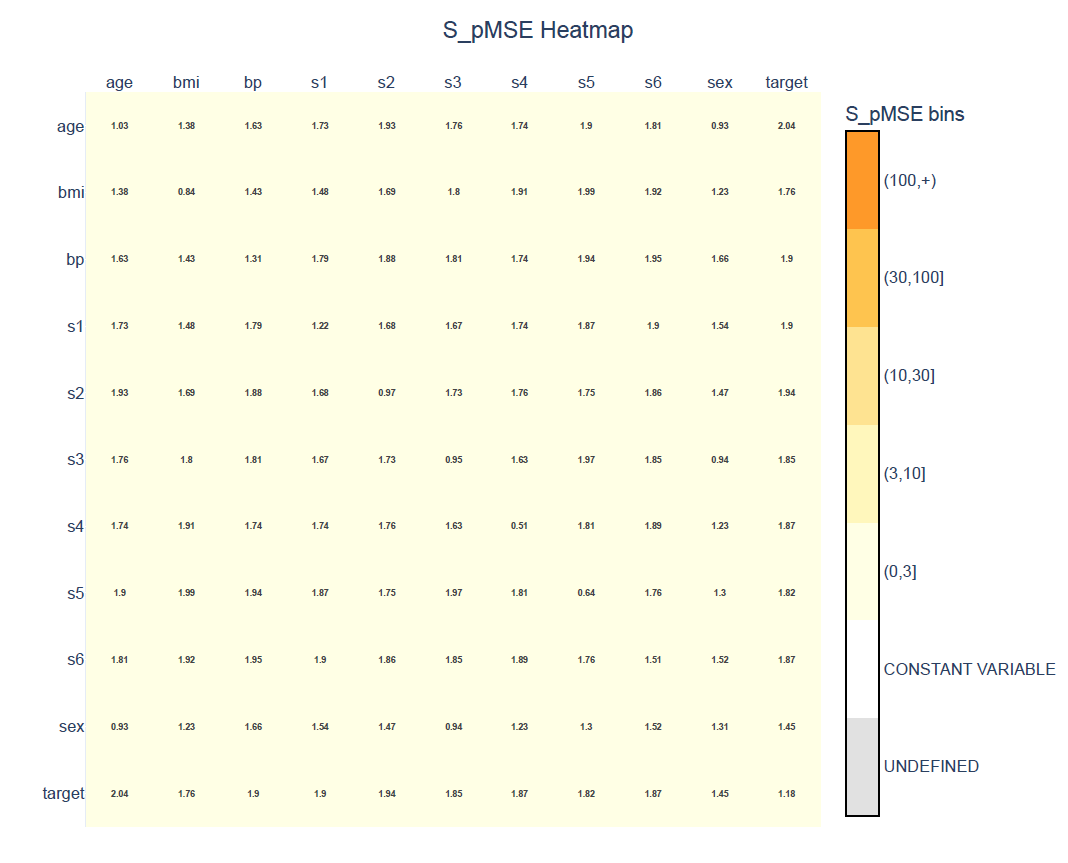
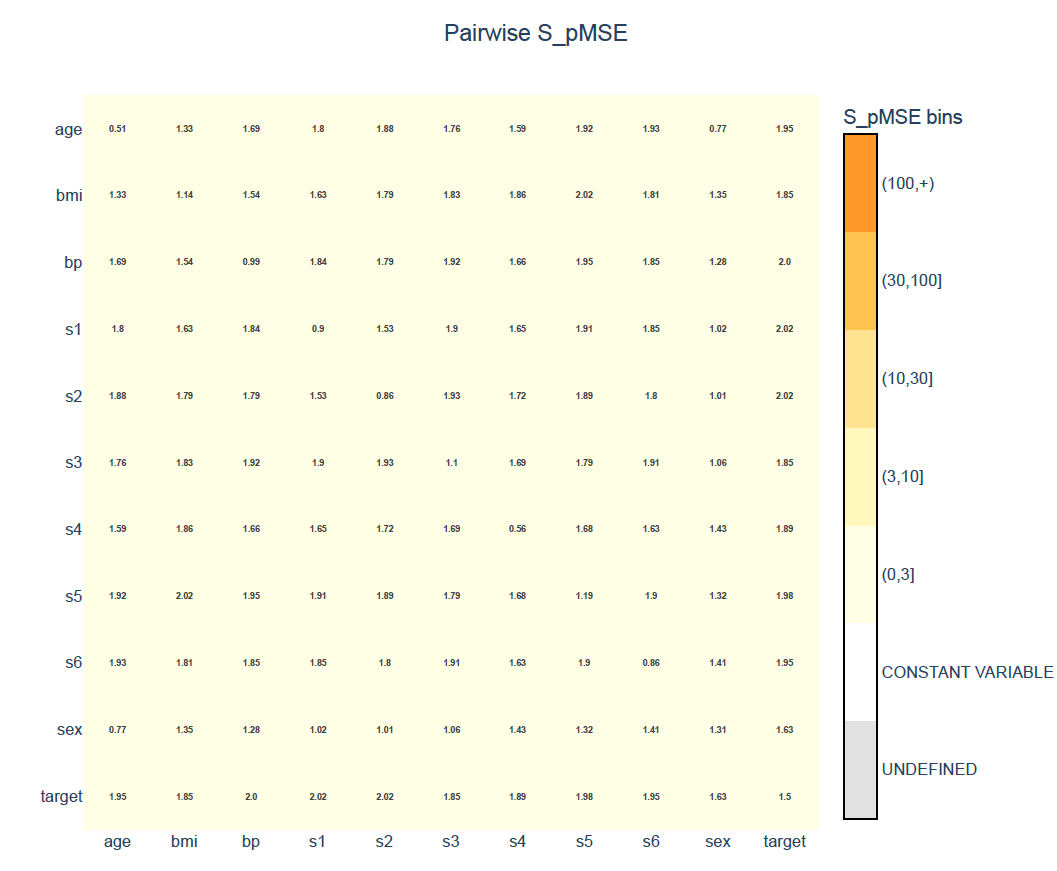
283 spmse plot formatting can improve (#285)
* First changes to the plotting, added a show_values True/False and the column name to the bottom

* Changed fontsize back

* Commented the plotting test

* Apply batched suggestions from code review

* Implemented feedback and pep8 formatting

* Different formatter

* Apply suggestion from @anneliesdej

* First changes to the docs

* Made the text better

* Changes the example text back

* Changed Titanic back

* Update src/synthpop/plotting/plot_spmse.py

---------

diff --git a/src/synthpop/plotting/plot_spmse.py b/src/synthpop/plotting/plot_spmse.py
@@ -22,7 +22,7 @@ def _categorise_spmse(spmse: pd.DataFrame, bins: Sequence[float]) -> pd.DataFram
 
     :return: 4xN pandas DataFrame with new categorised column
     """
-    spmse["category"] = np.digitize(spmse['S_pMSE'], bins=bins, right=True)
+    spmse["category"] = np.digitize(spmse["S_pMSE"], bins=bins, right=True)
     return spmse
 
 
@@ -54,7 +54,7 @@ def _make_matrix(df: pd.DataFrame, value_string="S_pMSE") -> pd.DataFrame:
     return matrix.iloc[::-1]
 
 
-def _make_text_matrix(matrix: pd.DataFrame) -> pd.DataFrame:
+def _make_text_matrix(matrix: pd.DataFrame, show_values: bool) -> pd.DataFrame:
     """
     Convert a numeric matrix into a string matrix for plotting.
 
@@ -63,11 +63,16 @@ def _make_text_matrix(matrix: pd.DataFrame) -> pd.DataFrame:
     is undefined because the variable is constant.
 
     :param matrix: NxN numpy matrix
+    :param show_values: Whether the S_pMSE values are shown in the plot
 
     return: an NxN matrix
     """
-    text_matrix = matrix.round(2).astype(str)
 
+    if show_values:
+        text_matrix = matrix.round(2).astype(str)
+    else:
+        # empty frame with nothing
+        return pd.DataFrame("", index=matrix.index, columns=matrix.columns)
     text_matrix = text_matrix.mask(
         matrix.isna(),
         "UNDEFINED",
@@ -83,8 +88,11 @@ def _get_colour_scale() -> list:
     Helper function to obtain the discrete colour scale used for the S_pMSE bins.
     """
 
-    colours = ['rgb(225, 225, 225)'] + ['rgb(255, 255, 255)'] + \
-        px.colors.sequential.YlOrBr[:5]
+    colours = (
+        ["rgb(225, 225, 225)"]
+        + ["rgb(255, 255, 255)"]
+        + px.colors.sequential.YlOrBr[:5]
+    )
 
     n = len(colours)
     colour_scale = []
@@ -98,10 +106,10 @@ def _get_colour_scale() -> list:
 
 
 def _make_heatmap(
-        matrix: pd.DataFrame,
-        text_matrix: pd.DataFrame,
-        colour_scale: list,
-        bin_labels: Sequence[str]
+    matrix: pd.DataFrame,
+    text_matrix: pd.DataFrame,
+    colour_scale: list,
+    bin_labels: Sequence[str],
 ) -> go.Figure:
     """
     Generate an interactive Plotly heatmap of the categorised S_pMSE matrix.
@@ -118,6 +126,9 @@ def _make_heatmap(
     :return: A Plotly Figure containing the S_pMSE heatmap.
     """
 
+    width = 986
+    height = 850
+
     fig = go.Figure(
         data=go.Heatmap(
             z=matrix.values,
@@ -126,10 +137,7 @@ def _make_heatmap(
             text=text_matrix.values,
             texttemplate="<b>%{text}</b>",
             hovertemplate=(
-                "x: %{x}<br>"
-                "y: %{y}<br>"
-                "value: %{text}"
-                "<extra></extra>"
+                "x: %{x}<br>" "y: %{y}<br>" "value: %{text}" "<extra></extra>"
             ),
             colorscale=colour_scale,
             zmin=0,
@@ -141,24 +149,30 @@ def _make_heatmap(
                 title="S_pMSE bins",
                 outlinecolor="black",
                 outlinewidth=2,
-            )
+            ),
         ),
-
         layout=dict(
-            title="S_pMSE Heatmap",
+            title="Pairwise S_pMSE",
             title_x=0.5,
             font=dict(family="Arial", size=15),
-            width=986,
-            height=850,
-            xaxis=dict(side="top"),
-            yaxis=dict(scaleanchor="x", scaleratio=1)  # Make it a Cube
-        )
+            width=width,
+            height=height,
+            paper_bgcolor="rgba(0,0,0,0)",
+            plot_bgcolor="rgba(0,0,0,0)",
+            xaxis=dict(side="bottom"),
+            yaxis=dict(scaleanchor="x", scaleratio=1),  # Make it a Cube
+        ),
     )
 
     return fig
 
 
-def plot_spmse(spmse: pd.DataFrame, save_path: str | None = None, show_plot: bool = False) -> go.Figure:
+def plot_spmse(
+    spmse: pd.DataFrame,
+    save_path: str | None = None,
+    show_plot: bool = False,
+    show_values: bool = True,
+) -> go.Figure:
     """
     Create a heatmap visualisation of pairwise S_pMSE values.
 
@@ -169,19 +183,21 @@ def plot_spmse(spmse: pd.DataFrame, save_path: str | None = None, show_plot: boo
     The displayed S_pMSE values are grouped into predefined bins and
     represented using a discrete sequential colour scale.
 
-    If a saving location is provided, the generated heatmap is written to `spmse.pdf` in the specified directory. 
+    If a saving location is provided, the generated heatmap is written to `spmse.pdf` in the specified directory.
     If interactive rendering is enabled, the figure is displayed using the active Plotly renderer.
 
-    :param spmse: DataFrame containing the pairwise standardised propensity mean squared error values. 
-        The dataframe must contain exactly the columns `['column1', 'column2', 'S_pMSE']` 
-        where `column1` and `column2` identify the variable pair and `S_pMSE` contains the corresponding pairwise S_pMSE value. 
+    :param spmse: DataFrame containing the pairwise standardised propensity mean squared error values.
+        The dataframe must contain exactly the columns `['column1', 'column2', 'S_pMSE']`
+        where `column1` and `column2` identify the variable pair and `S_pMSE` contains the corresponding pairwise S_pMSE value.
         You can obtain this dataframe by running :func:`~synthpop.utility_metrics.spmse.pairwise_spmse`.
     :param save_path: Directory where the output PDF is written.
         If a relative path is provided, it is resolved relative to the current working
         directory. The directory is created if it does not already exist (including)
         parent directories). If `None` (default), no permanent output file is created.
-    :param show_plot: Whether to display the heatmap interactively using the active Plotly renderer. 
+    :param show_plot: Whether to display the heatmap interactively using the active Plotly renderer.
         Default is `False`. In headless environments this parameter should be set to `False`.
+    :param show_values: Whether to show the S_pMSE values in the heatmap cells.
+        Default is `True`. When `False`, only the color coding is shown.
 
     :return: A Plotly Figure containing a heatmap of pairwise S_pMSE values with
         bin-based colouring and S_pMSE values in the bins.
@@ -218,31 +234,36 @@ def plot_spmse(spmse: pd.DataFrame, save_path: str | None = None, show_plot: boo
 
     if not isinstance(spmse, pd.DataFrame):
         raise ValueError(
-            f"The S_pMSE data should be a pandas DataFrame, got {type(spmse)} instead.")
+            f"The S_pMSE data should be a pandas DataFrame, got {type(spmse)} instead."
+        )
 
-    if not list(spmse.columns) == ['column1', 'column2', 'S_pMSE']:
+    if not list(spmse.columns) == ["column1", "column2", "S_pMSE"]:
 
         raise ValueError(
             "The S_pMSE dataframe must contain exactly "
             "the columns ['column1', 'column2', 'S_pMSE']."
         )
-    if pd.isna(spmse['S_pMSE']).any():
+    if pd.isna(spmse["S_pMSE"]).any():
         raise ValueError(
-            "The S_pMSE dataframe must not contain missing values"
-        )
+            "The S_pMSE dataframe must not contain missing values")
     spmse = spmse.copy(deep=False)
 
     bins = [0, 3, 10, 30, 100, np.inf]
     bin_labels = [
-        "UNDEFINED", "CONSTANT VARIABLE", "(0,3]", "(3,10]",
-        "(10,30]", "(30,100]", '(100,+)'
+        "UNDEFINED",
+        "CONSTANT VARIABLE",
+        "(0,3]",
+        "(3,10]",
+        "(10,30]",
+        "(30,100]",
+        "(100,+)",
     ]
 
     # pairwise_spmse does not return nan
     spmse = _categorise_spmse(spmse, bins)
 
     matrix_orig = _make_matrix(spmse, "S_pMSE")
-    text_matrix = _make_text_matrix(matrix_orig)
+    text_matrix = _make_text_matrix(matrix_orig, show_values)
 
     matrix = _make_matrix(spmse, "category")
     matrix += 1
@@ -261,15 +282,9 @@ def plot_spmse(spmse: pd.DataFrame, save_path: str | None = None, show_plot: boo
 
         output_dir = Path(save_path)
 
-        output_dir.mkdir(
-            parents=True,
-            exist_ok=True
-        )
+        output_dir.mkdir(parents=True, exist_ok=True)
 
-        output_file = (
-            output_dir
-            / "spmse.pdf"
-        )
+        output_file = output_dir / "spmse.pdf"
 
         fig.write_image(output_file)
 

diff --git a/tests/unit/test_plot_spmse.py b/tests/unit/test_plot_spmse.py
@@ -128,7 +128,7 @@ def test_make_matrix_reindexes_missing_axis_labels():
 # ----- _make_text_matrix tests -----
 
 
-def test_make_text_matrix_test():
+def test_make_text_matrix_test_show_values():
     """
     Test that checks the text matrix
     """
@@ -139,7 +139,7 @@ def test_make_text_matrix_test():
         [56., np.nan, 473842.49323234233, 8.],
     ])
 
-    matrix = _make_text_matrix(matrix)
+    matrix = _make_text_matrix(matrix, show_values=True)
 
     output = pd.DataFrame(
         [
@@ -152,6 +152,29 @@ def test_make_text_matrix_test():
 
     pd.testing.assert_frame_equal(output, matrix)
 
+def test_make_text_matrix_test_show_no_values():
+    """
+    Test that checks the text matrix
+    """
+    matrix = pd.DataFrame([
+        [np.nan, 0., 1.0, 46.485343962786234],
+        [0., 0., 3.0000001, np.nan],
+        [2.9999999, 9., 46.432222523765427, 10534.],
+        [56., np.nan, 473842.49323234233, 8.],
+    ])
+
+    matrix = _make_text_matrix(matrix, show_values=False)
+
+    output = pd.DataFrame(
+        [
+            ["", "", "", ""],
+            ["", "", "", ""],
+            ["", "", "", ""],
+            ["", "", "", ""],
+        ],
+    )
+
+    pd.testing.assert_frame_equal(output, matrix)
 
 # ----- _get_colour_scale tests -----
 
@@ -292,11 +315,11 @@ def test_make_heatmap_layout(heatmap_inputs):
         bin_labels,
     )
 
-    assert fig.layout.title.text == "S_pMSE Heatmap"
+    assert fig.layout.title.text == "Pairwise S_pMSE"
     assert fig.layout.title.x == 0.5
     assert fig.layout.width == 986
     assert fig.layout.height == 850
-    assert fig.layout.xaxis.side == "top"
+    assert fig.layout.xaxis.side == "bottom"
     assert fig.layout.yaxis.scaleanchor == "x"
     assert fig.layout.yaxis.scaleratio == 1
 
@@ -481,5 +504,18 @@ def test_no_input_change(spmse_df):
 
     pd.testing.assert_frame_equal(spmse_df, original_df)
 
+
+def test_show_values_parameter(spmse_df):
+    """
+    Test that show_values parameter works correctly
+    """
+    # Test with show_values=True
+    fig1 = plot_spmse(spmse_df, None, False, True)
+    assert any("0.0" in str(text) for text in fig1.data[0].text.flatten())
+
+    # Test with show_values=False
+    fig2 = plot_spmse(spmse_df, None, False, False)
+    assert not any("0.0" in str(text) for text in fig2.data[0].text.flatten())
+
 # def test_visual(spmse_df): #Please check for review
-#     plot_spmse(spmse_df, None, True)
+#     plot_spmse(spmse_df, None, True, True)
